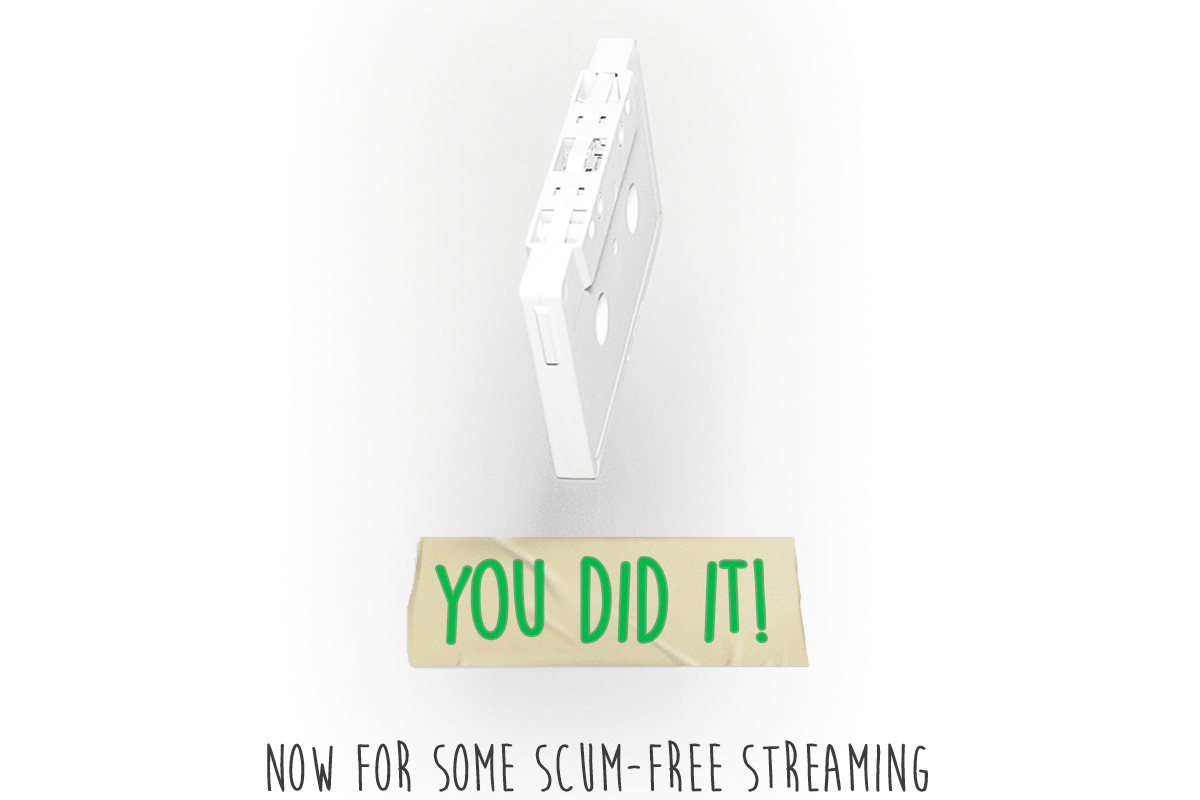
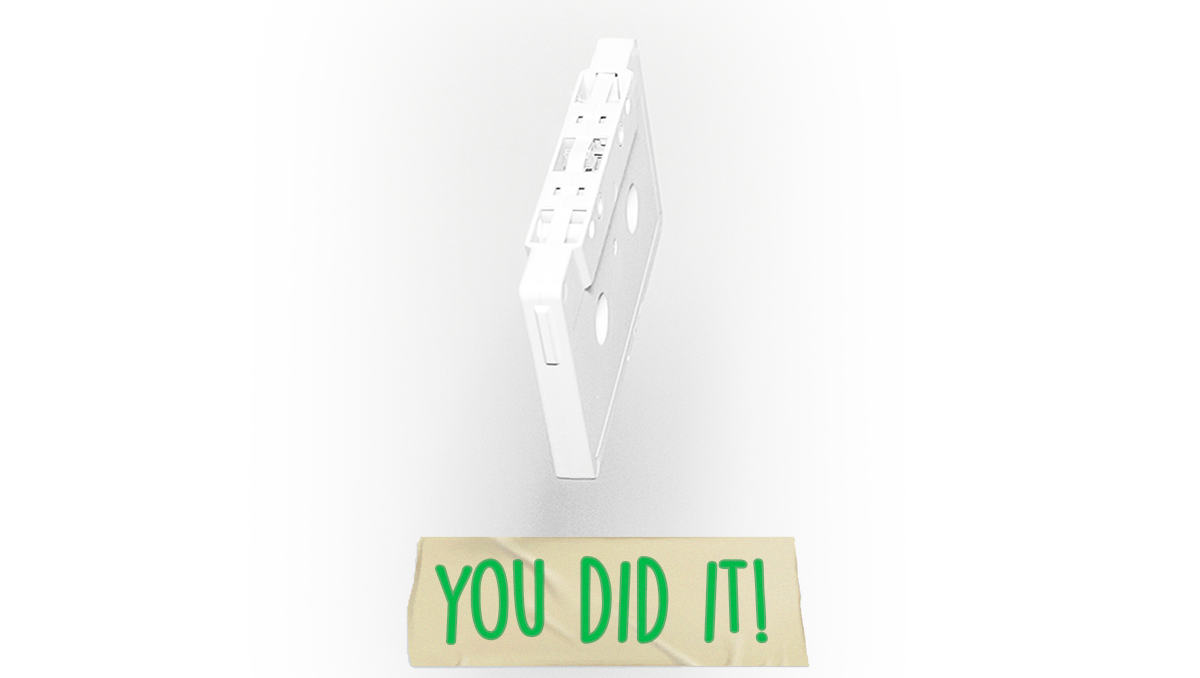
Style Updates
- Stylistic changes to the success page
- Stylistic changes to Index.html
- Added Google Analytics to index + success pages

diff --git a/index.html b/index.html
@@ -1,6 +1,17 @@
 <!DOCTYPE html>
 <html>
+<head>
+    
+<!-- Global site tag (gtag.js) - Google Analytics -->
+<script async src="https://www.googletagmanager.com/gtag/js?id=UA-153689689-1"></script>
+<script>
+  window.dataLayer = window.dataLayer || [];
+  function gtag(){dataLayer.push(arguments);}
+  gtag('js', new Date());
 
+  gtag('config', 'UA-153689689-1');
+</script>
+    
   <meta charset="UTF-8">
   <meta http-equiv="X-UA-Compatible" content="IE=edge">
   <meta name="viewport" content="width=device-width, initial-scale=1, minimum-scale=1">
@@ -34,7 +45,7 @@
   <link rel="preload" as="style" href="assets/mobirise/css/mbr-additional.css">
   <link rel="stylesheet" href="assets/mobirise/css/mbr-additional.css" type="text/css">
 
-    
+</head>   
     
 <!-- BACKGROUND --> 
   <style>
@@ -100,7 +111,7 @@ div.social2 {
                 
                 
                 <p class="mbr-text pb-3 mbr-fonts-style display-7">There are some awful humans making music. Let's make sure you're not accidentally supporting them.
-                    <br><br>With one click, automatically unfollow less-than-savory artists, remove their albums, and pull their 10 most popular songs from all your Spotify playlists (<em>technical constraints prevent us from doing more</em>).
+                    <br><br>With one click, automatically unfollow less-than-savory artists, remove their albums, and pull their 10 most popular songs from all your Spotify playlists (technical constraints prevent us from doing more).
                 <br><br>
                 </p>
                 <div class="mbr-section-btn"><a class="btn btn-md btn-danger-outline display-7" href="#" onclick="authorize()">Scrub Your Spotify</a></div>
@@ -130,9 +141,9 @@ div.social2 {
                 </style>
     <img src="assets/images/Divider Images/Why Tape.png" class="responsive1" width="873" height="231">
     <br>
-                <h3 class="mbr-section-subtitle align-center mbr-light mbr-white pb-3 mbr-fonts-style display-7">Justify is an attempt to help you make a conscious choice about the artists you support.<div><br></div><div>Amid the loud, public deplatforming campaigns and cancel culture, Justify is a simple, quieter way to do the right thing — namely by ensuring songs in old playlists or artists you followed years ago aren't helping some dirtbag's Spotify ranking.</div></h3>
+                <h3 class="mbr-section-subtitle align-center mbr-light pb-3 mbr-fonts-style display-7">Justify is an attempt to help you make a conscious choice about the artists you support.<br><br>Amid the loud, public deplatforming campaigns and cancel culture, Justify is a simple, quieter way to do the right thing — namely by ensuring songs in old playlists or artists you followed years ago aren't helping some dirtbag's Spotify ranking.</h3>
                 
-                <h3 class="mbr-section-subtitle align-center mbr-light mbr-white pb-3 mbr-fonts-style display-7">Have questions, suggestions, or just want to talk? <a href="mailto:Justify<JustifyListening@gmail.com>?subject=Hi%20there..." target="_blank"> E-mail us.</a></h3>
+                <h3 class="mbr-section-subtitle align-center mbr-light pb-3 mbr-fonts-style display-7">Have questions, suggestions, or just want to talk? <a href="mailto:Justify<JustifyListening@gmail.com>?subject=Hi%20there..." target="_blank"> E-mail us.</a></h3>
                 
             </div>
         </div>

diff --git a/success_result.html b/success_result.html
@@ -8,6 +8,17 @@
   <link rel="shortcut icon" href="assets/images/TabIcon.png" type="image/x-icon">
   <meta name="description" content="Some awful humans make music — make sure you're not accidentally supporting them. With one click, automatically unfollow less-than-savory artists and remove their songs from all your Spotify playlists.">
   <title>Justify</title>
+    
+<!-- Global site tag (gtag.js) - Google Analytics -->
+<script async src="https://www.googletagmanager.com/gtag/js?id=UA-153689689-1"></script>
+<script>
+  window.dataLayer = window.dataLayer || [];
+  function gtag(){dataLayer.push(arguments);}
+  gtag('js', new Date());
+
+  gtag('config', 'UA-153689689-1');
+</script>
+
 
 <!-- FB Meta Data -->
   <meta property="og:title" content="Justify">
@@ -35,27 +46,50 @@
   <link rel="preload" as="style" href="assets/mobirise/css/mbr-additional.css">
   <link rel="stylesheet" href="assets/mobirise/css/mbr-additional.css" type="text/css">
   <link rel="stylesheet" href="./scrollstyle.css">
-  
 
+<style>
+@font-face {
+   font-family: Moon_Flower;
+   src: url('assets/fonts/moon_flower.ttf');
+}
+
+@font-face {
+   font-family: Moon_Flower;
+   src: url('assets/fonts/moon_flower_bold.ttf');
+   font-weight: bold;
+}
+
+* {
+   font-family: Moon_Flower;
+}
+</style>
+
+    
 </head>
 <body>
 <!-- partial:index.partial.html -->
       
  <div id='hero'>
-  <div class='layer-2 layer' data-depth='0.50' data-type='parallax'></div>
-  <div class='layer-3 layer' data-depth='0.80' data-type='parallax'></div>
+  <div class='layer-3 layer' data-depth='0.6' data-type='parallax'></div>
 </div>
 
 
 <div id='hero-mobile'></div>
 
+<meta name="viewport" content="width=device-width, initial-scale=1.0">
+<h2 style="font-size:4vw; text-align: center">
+    <strong>Now for some scum-free streaming</strong></h2>
+    <br>
 <!-- SOCIAL SHARING SECTIONS --> 
 
+    
 <div id='body'>
      <div class="container">
         <div class="media-container-row">
             <div class="col-md-8 align-center">
                 <h2 class="pb-3 mbr-section-title mbr-fonts-style display-5"><strong></strong>***<br></h2>
+                      
+
  
   <div class='container'>
       <div class='row'>
